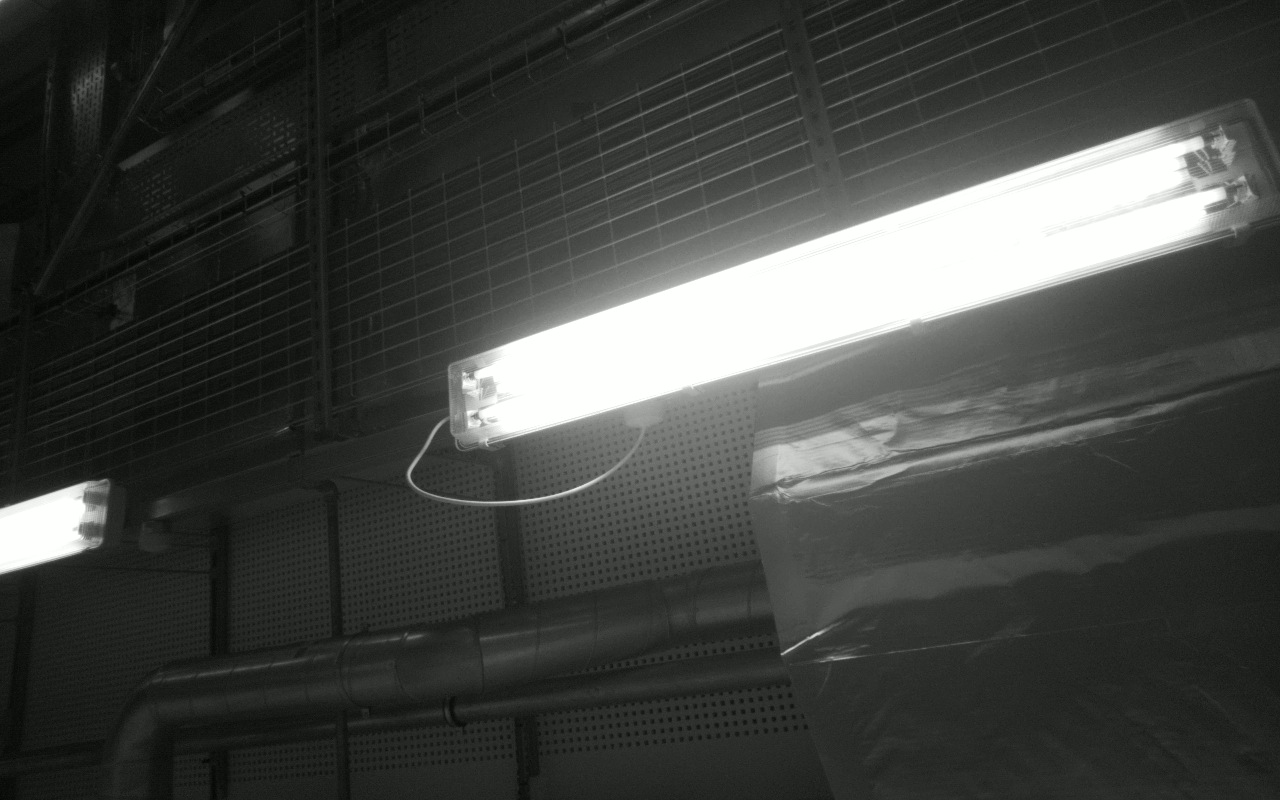
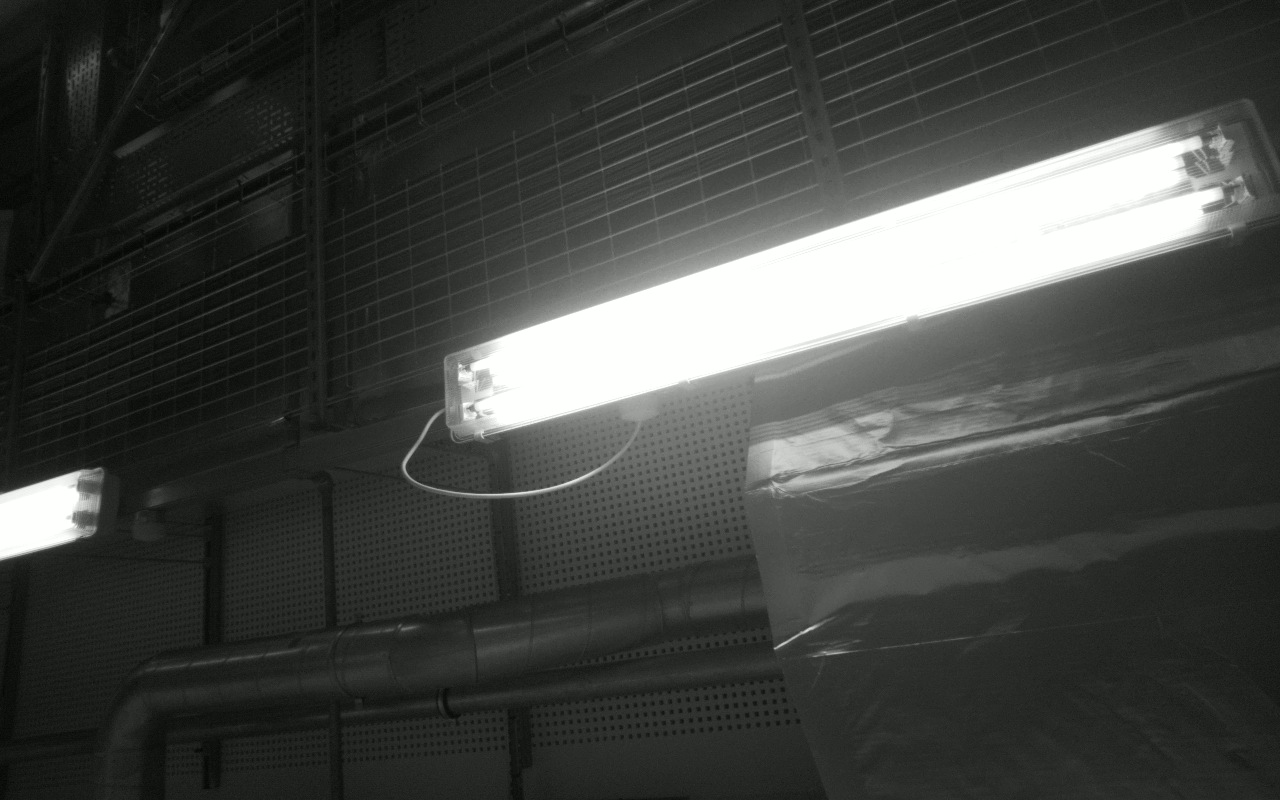
Refactored UI with same functionality

diff --git a/GroundSegment/TCPClientApp.py b/GroundSegment/TCPClientApp.py
@@ -1,7 +1,7 @@
 ############ standard libraries ############
 import socket
 import tkinter as tk
-import tkinter.ttk
+from tkinter import ttk
 from PIL import Image, ImageTk
 import matplotlib.pyplot as plt
 import matplotlib.dates as mdates
@@ -33,7 +33,8 @@ class TCPClientApp:
         self.current_packet = MessagePack()
 
         self.master = master
-        master.title("TCP Client")
+        self.master.protocol("WM_DELETE_WINDOW",self.exitfunc)
+        master.title("BX34 SVAROG GROUND SEGMENT")
         master.configure(bg='black')
         self.TelemFreqVal = tk.DoubleVar()
         self.ImgFreqVal = tk.DoubleVar()
@@ -42,140 +43,199 @@ class TCPClientApp:
         ###### GUI Elements ######
 
         # Add logo
-        self.add_logo(master)
+        #
+        #Main two frames
+        self.left_panel = tk.Frame(master,width=300,height=500,bg="grey")
+        self.left_panel.grid(row=0,column=0)
+        self.left_panel.grid_propagate(False)
+        self.right_panel = tk.Frame(master,width=600,height=500,bg="white")
+        self.right_panel.grid(row=0,column=1)
+        self.right_panel.grid_propagate(False)
 
-        # Frame for connection status and toggle button
-        self.status_frame = tk.Frame(master, bg='black')
-        self.status_frame.pack(pady=10)
+        #Button containment frame
 
-        self.button_frame = tk.Frame(master,bg='white')
-        self.button_frame.pack(pady=50)
-
-        # close app button
-        exit_button = tk.Button(self.status_frame, text="Exit", command=master.destroy) 
-        exit_button.pack(pady=20)
-
-        # other buttons
-        self.plotButton = tk.Button(self.status_frame, text="Hide Voltage Monitor", command=self.togglePlot, bg='white', fg='black')
-        self.plotButton.pack(side=tk.LEFT, padx=10)
+        self.left_button_panel = tk.Frame(self.left_panel,width=300,height=100)
+        self.left_button_panel.grid_propagate(False)
+        self.left_button_panel.grid(column=0,row=0,sticky=tk.N)
         
-        self.connect_button = tk.Button(self.status_frame, text="Connect to server", command=self.connect_socket, bg='white', fg='black')
-        self.connect_button.pack(side=tk.LEFT, padx=10)
 
-        self.disconnect_button = tk.Button(self.status_frame, text="Disconnect to server", command=self.disconnect_socket,bg='white', fg='black', state=tk.DISABLED)
-        self.disconnect_button.pack(side=tk.LEFT, padx=10)
+        self.left_data_panel = tk.Frame(self.left_panel,width=300,height=400)
+        self.left_data_panel.grid(column=0,row=1,sticky="se")
+        self.left_data_panel.grid_propagate(False)
+        
 
-        self.telemFrequency = tk.Scale(self.status_frame,from_=1.2, to=10, orient="horizontal",resolution=0.1,variable=self.TelemFreqVal,label="Telemetry intervals (s)")
+
+        self.right_button_panel = tk.Frame(self.right_panel,width=600,height=130)
+        self.right_button_panel.grid(column=0,row=0,sticky=tk.N)
+        self.right_button_panel.grid_propagate(False)
+
+        self.right_pic_panel = tk.Frame(self.right_panel,width=600,height=370)
+        self.right_pic_panel.grid(column=0,row=1,sticky="se")
+        self.right_pic_panel.pack_propagate(False)
+
+
+        self.rates_panel = tk.Frame(self.right_button_panel,width=150,height=130)
+        self.rates_panel.grid(column=0,row=0)
+        self.rates_panel.pack_propagate(False)
+
+        self.actions_panel = tk.Frame(self.right_button_panel,width=300,height=130)
+        self.actions_panel.grid(column=1,row=0)
+        self.actions_panel.grid_propagate(False)
+
+        self.important_panel = tk.Frame(self.right_button_panel,width=150,height=130,bg="red")
+        self.important_panel.grid(column=2,row=0)
+        self.important_panel.pack_propagate(False)
+        
+        # Frame for connection status and toggle button
+        # self.status_frame = tk.Frame(master, bg='black')
+        # self.status_frame.pack(pady=10)
+
+        # self.button_frame = tk.Frame(master,bg='white')
+        # self.button_frame.pack(pady=50)
+
+        # # close app button
+        # exit_button = tk.Button(self.status_frame, text="Exit", command=master.destroy) 
+        # exit_button.pack(pady=20)
+
+        # # other buttons
+        # self.plotButton = tk.Button(self.status_frame, text="Hide Voltage Monitor", command=self.togglePlot, bg='white', fg='black')
+        # self.plotButton.pack(side=tk.LEFT, padx=10)
+        self.add_logo(self.left_button_panel)
+        self.connect_button = tk.Button(self.left_button_panel, text="Connect to server",height=1,font=("Arial",8), command=self.connect_socket, bg='white', fg='black')
+        self.connect_button.grid(row=1,column=0)
+
+        self.disconnect_button = tk.Button(self.left_button_panel, text="Disconnect to server" ,height=1,font=("Arial",8),command=self.disconnect_socket,bg='white', fg='black', state=tk.DISABLED)
+        self.disconnect_button.grid(row=1,column=1)
+
+        self.telemFrequency = tk.Scale(self.rates_panel,from_=1.2, to=10, orient="horizontal",width=5,font=("Arial",7),length=150,resolution=0.1,variable=self.TelemFreqVal,label="Telemetry intervals (s)")
         self.telemFrequency.pack(side=tk.TOP,padx=10)
 
-        self.telemetryButton = tk.Button(self.status_frame, text="Telemetry currently off", command=self.toggleTelem, bg='red', fg='white', state=tk.DISABLED)
-        self.telemetryButton.pack(side=tk.LEFT, padx=10)
+        self.telemetryButton = tk.Button(self.left_button_panel, text="Telemetry currently off",height=1,font=("Arial",8), command=self.toggleTelem, bg='red', fg='white', state=tk.DISABLED)
+        self.telemetryButton.grid(row=2,column=0)
 
-        self.imgFrequency = tk.Scale(self.status_frame,from_=10, to=60, orient="horizontal",resolution=1,variable=self.ImgFreqVal,label="Image intervals (s)")
+        self.imgFrequency = tk.Scale(self.rates_panel,from_=10, to=60, orient="horizontal",width=5,font=("Arial",7),length=150,resolution=1,variable=self.ImgFreqVal,label="Image intervals (s)")
         self.imgFrequency.pack(side=tk.TOP,padx=10)
 
-        self.imgrate = tk.Scale(self.status_frame,from_=32, to=1638, orient="horizontal",resolution=1,variable=self.imgbaudrate,label="bit rate (Kbit/s)")
+        self.imgrate = tk.Scale(self.rates_panel,from_=32, to=1638, orient="horizontal",width=5,font=("Arial",7),length=150,resolution=1,variable=self.imgbaudrate,label="Image bit rate (Kbit/s)")
         self.imgrate.pack(side=tk.TOP,padx=10)
 
-        self.imageButton = tk.Button(self.status_frame, text="Camera currently off", command=self.toggleCamera, bg='red', fg='white', state=tk.DISABLED)
-        self.imageButton.pack(side=tk.LEFT, padx=10)
+        self.imageButton = tk.Button(self.left_button_panel, text="Camera currently off", height=1,font=("Arial",8),command=self.toggleCamera, bg='red', fg='white', state=tk.DISABLED)
+        self.imageButton.grid(row=2,column=1)
 
-        #Action buttons
-        self.H1Button = tk.Button(self.button_frame,text="Heater 1",  command=self.actuateH1 ,state=tk.DISABLED)
-        self.H1Button.pack(side=tk.LEFT, padx=10)
-        self.H2Button = tk.Button(self.button_frame,text="Heater 2",  command=self.actuateH2 ,state=tk.DISABLED)
-        self.H2Button.pack(side=tk.LEFT, padx=10)
-        self.H3Button = tk.Button(self.button_frame,text="Heater 3",   command=self.actuateH3 ,state=tk.DISABLED)
-        self.H3Button.pack(side=tk.LEFT, padx=10)
-        self.H4Button = tk.Button(self.button_frame,text="Heater 4",   command=self.actuateH4 ,state=tk.DISABLED)
-        self.H4Button.pack(side=tk.LEFT, padx=10)
-        self.H5Button = tk.Button(self.button_frame,text="Heater 5",   command=self.actuateH5 ,state=tk.DISABLED)
-        self.H5Button.pack(side=tk.LEFT, padx=10)
-        self.H6Button = tk.Button(self.button_frame,text="Heater 6",   command=self.actuateH6 ,state=tk.DISABLED)
-        self.H6Button.pack(side=tk.LEFT, padx=10)
-        self.BW1Button = tk.Button(self.button_frame,text="Burn-wire 1",   command=self.actuateBW1 ,state=tk.DISABLED)
-        self.BW1Button.pack(side=tk.LEFT, padx=10)
-        self.BW2Button = tk.Button(self.button_frame,text="Burn-wire 2",   command=self.actuateBW2 ,state=tk.DISABLED)
-        self.BW2Button.pack(side=tk.LEFT, padx=10)
-        self.MOTButton = tk.Button(self.button_frame,text="Motor",  command=self.actuateMOT ,state=tk.DISABLED)
-        self.MOTButton.pack(side=tk.LEFT, padx=10)
-        self.C1Button = tk.Button(self.button_frame,text="Secondary 1",  command=self.actuateC1 ,state=tk.DISABLED)
-        self.C1Button.pack(side=tk.LEFT, padx=10)
-        self.C2Button = tk.Button(self.button_frame,text="Secondary 2",  command=self.actuateC2 ,state=tk.DISABLED)
-        self.C2Button.pack(side=tk.LEFT, padx=10)
-        self.C3Button = tk.Button(self.button_frame,text="Secondary 3",  command=self.actuateC3 ,state=tk.DISABLED)
-        self.C3Button.pack(side=tk.LEFT, padx=10)
-        self.C4Button = tk.Button(self.button_frame,text="Secondary 4",  command=self.actuateC4 ,state=tk.DISABLED)
-        self.C4Button.pack(side=tk.LEFT, padx=10)
-        
-        
-        # tabs
-        tabs = tk.ttk.Notebook(master)
-        tabs.pack(expand=1, fill='both')
-        self.tab1 = tk.Frame(tabs, bg='khaki1')
-        self.tab2 = tk.Frame(tabs, bg='lightgray')
-        tabs.add(self.tab1, text='Tab 1')
-        tabs.add(self.tab2, text='Tab 2')
+        # #Action buttons
+        self.H1Button = tk.Button(self.actions_panel,text="Heater 1",font=("Arial",7),  command=self.actuateH1 ,state=tk.DISABLED)
+        self.H1Button.grid(column=0,row=0,padx=4,pady=4)
+        self.H2Button = tk.Button(self.actions_panel,text="Heater 2",font=("Arial",7),  command=self.actuateH2 ,state=tk.DISABLED)
+        self.H2Button.grid(column=1,row=0,padx=2,pady=4)
+        self.H3Button = tk.Button(self.actions_panel,text="Heater 3",font=("Arial",7),  command=self.actuateH3 ,state=tk.DISABLED)
+        self.H3Button.grid(column=2,row=0,padx=2,pady=4)
+        self.H4Button = tk.Button(self.actions_panel,text="Heater 4",font=("Arial",7),  command=self.actuateH4 ,state=tk.DISABLED)
+        self.H4Button.grid(column=3,row=0,padx=2,pady=4)
+        self.H5Button = tk.Button(self.actions_panel,text="Heater 5",font=("Arial",7),  command=self.actuateH5 ,state=tk.DISABLED)
+        self.H5Button.grid(column=4,row=0,padx=2,pady=4)
+        self.H6Button = tk.Button(self.actions_panel,text="Heater 6",font=("Arial",7),  command=self.actuateH6 ,state=tk.DISABLED)
+        self.H6Button.grid(column=5,row=0,padx=2,pady=4)
 
-        # frames inside tab1
+
+
+        # self.H2Button = tk.Button(self.button_frame,text="Heater 2",  command=self.actuateH2 ,state=tk.DISABLED)
+        # self.H2Button.pack(side=tk.LEFT, padx=10)
+        # self.H3Button = tk.Button(self.button_frame,text="Heater 3",   command=self.actuateH3 ,state=tk.DISABLED)
+        # self.H3Button.pack(side=tk.LEFT, padx=10)
+        # self.H4Button = tk.Button(self.button_frame,text="Heater 4",   command=self.actuateH4 ,state=tk.DISABLED)
+        # self.H4Button.pack(side=tk.LEFT, padx=10)
+        # self.H5Button = tk.Button(self.button_frame,text="Heater 5",   command=self.actuateH5 ,state=tk.DISABLED)
+        # self.H5Button.pack(side=tk.LEFT, padx=10)
+        # self.H6Button = tk.Button(self.button_frame,text="Heater 6",   command=self.actuateH6 ,state=tk.DISABLED)
+        # self.H6Button.pack(side=tk.LEFT, padx=10)
+        self.BW1Button = tk.Button(self.actions_panel,text="BW 1",font=("Arial",7),   command=self.actuateBW1 ,state=tk.DISABLED)
+        self.BW1Button.grid(column=0,row=1,padx=2,pady=4)
+        self.BW2Button = tk.Button(self.actions_panel,text="BW 2",font=("Arial",7),   command=self.actuateBW2 ,state=tk.DISABLED)
+        self.BW2Button.grid(column=1,row=1,padx=2,pady=4)
+        self.MOTButton = tk.Button(self.actions_panel,text="MOT EN",font=("Arial",7),  command=self.actuateMOT ,state=tk.DISABLED)
+        self.MOTButton.grid(column=2,row=1,padx=2,pady=4)
+
+        self.C1Button = tk.Button(self.actions_panel,text="C1 EN",font=("Arial",7),  command=self.actuateC1 ,state=tk.DISABLED)
+        self.C1Button.grid(column=0,row=2,padx=2,pady=4)
+        self.C2Button = tk.Button(self.actions_panel,text="C2 EN",font=("Arial",7),  command=self.actuateC2 ,state=tk.DISABLED)
+        self.C2Button.grid(column=1,row=2,padx=2,pady=4)
+        self.C3Button = tk.Button(self.actions_panel,text="C3 EN",font=("Arial",7),  command=self.actuateC3 ,state=tk.DISABLED)
+        self.C3Button.grid(column=2,row=2,padx=2,pady=4)
+        self.C4Button = tk.Button(self.actions_panel,text="C4 EN",font=("Arial",7),  command=self.actuateC4 ,state=tk.DISABLED)
+        self.C4Button.grid(column=3,row=2,padx=2,pady=4)
         
-        self.frame1_left = tk.Frame(self.tab1, bg='lightgray')
-        self.frame1_right = tk.Frame(self.tab1)
-        #self.frame1_terminal = tk.Frame(self.tab1, bg='lightgray')
+        
+        # # tabs
+        # tabs = tk.ttk.Notebook(master)
+        # tabs.pack(expand=1, fill='both')
+        # self.tab1 = tk.Frame(tabs, bg='khaki1')
+        # self.tab2 = tk.Frame(tabs, bg='lightgray')
+        # tabs.add(self.tab1, text='Tab 1')
+        # tabs.add(self.tab2, text='Tab 2')
+
+        # # frames inside tab1
+        
+        # self.frame1_left = tk.Frame(self.tab1, bg='lightgray')
+        # self.frame1_right = tk.Frame(self.tab1)
+        # #self.frame1_terminal = tk.Frame(self.tab1, bg='lightgray')
         self.timestamp = tk.StringVar()
         self.timestamp.set('timestamp')
-        self.imgtimestamp = tk.Label(self.frame1_right, textvariable = self.timestamp)
+        self.imgtimestamp = tk.Label(self.right_pic_panel, textvariable = self.timestamp)
         self.imgtimestamp.pack()
-        self.frame1_left.grid(row=0, column=0, padx=10, pady=10)
-        self.frame1_right.grid(row=0, column=1, padx=10, pady=10)
-        #self.frame1_terminal.grid(row=1, column=0, columnspan=2, padx=10, pady=10)
+        # self.frame1_left.grid(row=0, column=0, padx=10, pady=10)
+        # self.frame1_right.grid(row=0, column=1, padx=10, pady=10)
+        # #self.frame1_terminal.grid(row=1, column=0, columnspan=2, padx=10, pady=10)
 
-        # create terminal
-        #terminal = Terminal(bg = 'black', fg = 'white', pady=5, padx=5)
-        #terminal.pack(expand=True, fill='both')
+        # # create terminal
+        # #terminal = Terminal(bg = 'black', fg = 'white', pady=5, padx=5)
+        # #terminal.pack(expand=True, fill='both')
 
-        # create list of data
+        # # create list of data
         self.get_data_format()
         self.create_data_table()
 
-        # create image from camera
-        self.add_image_camera(self.frame1_right,"camera.png")
+        # # create image from camera
+        self.add_image_camera(self.right_pic_panel,"camera.png")
 
-        # create plots
-        plt.style.use('dark_background')
-        self.fig, self.ax = plt.subplots()
-        self.xs, self.ys = [], []
-        self.line, = self.ax.plot(self.xs, self.ys, color='green')
-        self.create_plot(master, self.tab2)
+        # # create plots
+        # plt.style.use('dark_background')
+        # self.fig, self.ax = plt.subplots()
+        # self.xs, self.ys = [], []
+        # self.line, = self.ax.plot(self.xs, self.ys, color='green')
+        # self.create_plot(master, self.tab2)
 
         ###### Receive data ######
         # Start the thread
         self.start_live_updates()
 
         # Setup date format on x-axis
-        self.ax.xaxis.set_major_formatter(mdates.DateFormatter('%H:%M:%S'))
-        self.fig.autofmt_xdate()
+        # self.ax.xaxis.set_major_formatter(mdates.DateFormatter('%H:%M:%S'))
+        # self.fig.autofmt_xdate()
 
 ############ Methods ############
 
+    def exitfunc(self):
+        self.master.destroy()
+
+
     ###### making it look nice ######
 
-    def add_logo(self, master):
+    def add_logo(self, frame):
         original_image = Image.open('logo.png')
-        resized_image = original_image.resize((450, 137), Image.Resampling.LANCZOS)
+        resized_image = original_image.resize((150, 45), Image.Resampling.LANCZOS)
         self.logo = ImageTk.PhotoImage(resized_image)
 
         # Frame for the logo with a visible background
-        self.logo_frame = tk.Frame(master, bg='white')
-        self.logo_frame.pack(fill=tk.X)
+        #self.logo_frame = tk.Frame(master, bg='white')
+        #self.logo_frame.pack(fill=tk.X)
 
-        self.logo_label = tk.Label(self.logo_frame, image=self.logo, bg='white')
-        self.logo_label.pack()
+        self.logo_label = tk.Label(frame, image=self.logo)
+        self.logo_label.grid(column=0,row=0)
 
     ###### live images ######
 
     def add_image_camera(self, frame, filename):
-        img = ImageTk.PhotoImage(Image.open(filename).resize((1000, 350), Image.Resampling.LANCZOS))
+        img = ImageTk.PhotoImage(Image.open(filename).resize((600, 350), Image.Resampling.LANCZOS))
         self.panel = tk.Label(frame, image=img)
         self.panel.image = img
         self.panel.pack()
@@ -299,9 +359,9 @@ class TCPClientApp:
 
         # add text
         for i in range(CommonData.telemetryParameters):
-            tk.Label(self.frame1_left, text=self.dataFormat[0][i], bg='lightgray').grid(row=(1+i%15), column=(2*(i//15)), padx=10, pady=2)
+            tk.Label(self.left_data_panel,font=("Arial",7), text=self.dataFormat[0][i], bg='lightgray').grid(row=(1+i%18), column=(2*(i//18)), padx=2, pady=2)
         # add data
-        LiveUpdatesTelemetry.update_data_table(data, self.frame1_left, self.dataFormat)
+        LiveUpdatesTelemetry.update_data_table(data, self.left_data_panel, self.dataFormat)
     
     ###### live updates ######
 
@@ -320,7 +380,7 @@ class TCPClientApp:
                 LiveUpdatesTelemetry(self.queue,
                                     self.current_packet,
                                     self.dataFormat,
-                                    self.frame1_left).start()
+                                    self.left_data_panel).start()
             self.queue.put_nowait(self.master.after(int(self.TelemFreqVal.get()*1000), self.processTelemetry))
         except queue.Empty:
             self.queue.put_nowait(self.master.after(int(self.TelemFreqVal.get()*1000), self.processTelemetry))
@@ -329,7 +389,7 @@ class TCPClientApp:
         try:
             if CommonData.runCamera:
                 LiveUpdatesCamera(self.queue,
-                                self.frame1_right,
+                                self.right_pic_panel,
                                 self.panel,self.timestamp,round(float(4096/self.imgbaudrate.get()*8/1000),3)).start()
             self.queue.put_nowait(self.master.after(int(self.ImgFreqVal.get()*1000), self.processCamera))
         except queue.Empty:

diff --git a/GroundSegment/LiveUpdatesTelemetry.py b/GroundSegment/LiveUpdatesTelemetry.py
@@ -95,7 +95,7 @@ class LiveUpdatesTelemetry(threading.Thread):
     def update_data_table(data, frame1_left, dataFormat):
         for i in range(CommonData.telemetryParameters):
             # clear contents
-            tk.Label(frame1_left, text='00000000', bg='lightgray', fg='lightgray').grid(row=(1+i%15), column=(1+2*(i//15)), padx=30, pady=3, rowspan=20)
+            tk.Label(frame1_left, text='00000000', bg='lightgray', fg='lightgray',font=("Arial",7)).grid(row=(1+i%18), column=(1+2*(i//18)), padx=2, pady=2, rowspan=20)
 
             # set contents
             colourFG = 'black'
@@ -108,7 +108,7 @@ class LiveUpdatesTelemetry(threading.Thread):
             else:
                 colourBG = 'green'
                 colourFG = 'white'
-            tk.Label(frame1_left, text=data[i], bg=colourBG, fg=colourFG).grid(row=(1+i%15), column=(1+2*(i//15)), padx=30, pady=3)
+            tk.Label(frame1_left, text=data[i],font=("Arial",7), bg=colourBG, fg=colourFG).grid(row=(1+i%18), column=(1+2*(i//18)), padx=2, pady=2)
 
 ############ Main ############
 

diff --git a/GroundSegment/LiveUpdatesCamera.py b/GroundSegment/LiveUpdatesCamera.py
@@ -69,7 +69,7 @@ class LiveUpdatesCamera(threading.Thread):
         PortCommunication.close_UDP(client_UDP_socket)
 
     def __update_image(self):
-        img = ImageTk.PhotoImage(Image.open(self.filename).resize((1440, 800), Image.Resampling.LANCZOS))
+        img = ImageTk.PhotoImage(Image.open(self.filename).resize((600, 333), Image.Resampling.LANCZOS))
         self.panel.configure(image=img)
         self.panel.image = img
 
